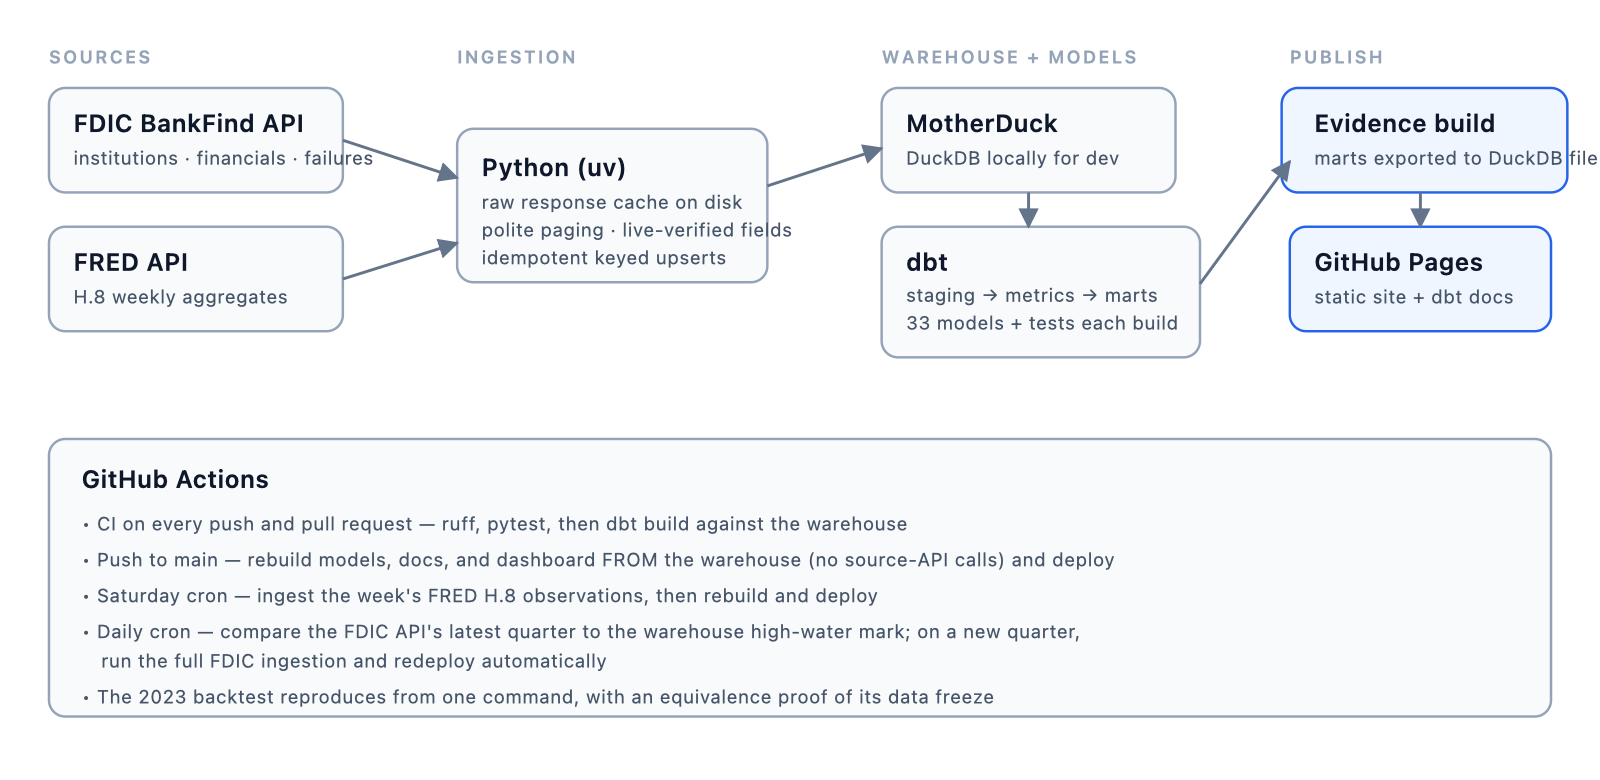
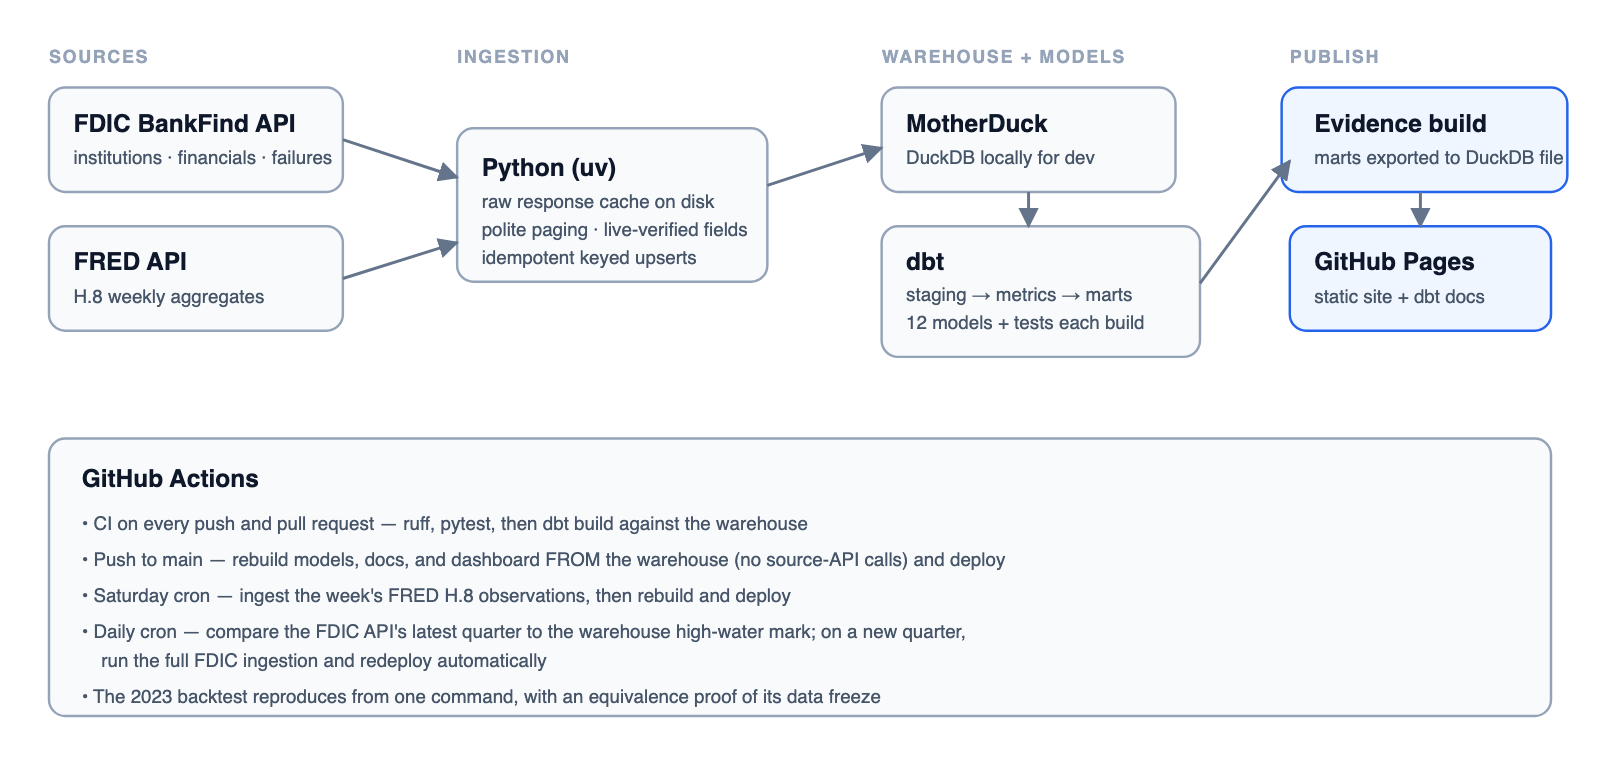
Fix the published dbt-test count and correct the architecture diagram
The data-quality page was reporting "0 passed, 0 failed" for the dbt suite in
production. `dbt build` records a passing test as "pass", but the deploy job
runs `dbt docs generate` after the build, which rewrites run_results.json so the
same rows read "success" — and the export only counted "pass". Count both
statuses so the figure reflects the suite that actually ran (verified: the row
now reads 27 passed after a docs-generate rewrite instead of collapsing to 0).

Correct the architecture diagram, which claimed "33 models"; dbt builds 12. The
SVG is fixed and the embedded PNG regenerated from it at the same dimensions.

diff --git a/scripts/export_dashboard_db.py b/scripts/export_dashboard_db.py
@@ -42,7 +42,11 @@ def _export_quality_status(con) -> None:
     if run_results.exists():
         results = json.loads(run_results.read_text())["results"]
         tests = [r for r in results if r["unique_id"].startswith("test.")]
-        passed = sum(1 for r in tests if r["status"] == "pass")
+        # `dbt build` records a passing test as "pass", but if the last thing to
+        # write run_results.json was `dbt docs generate` (as it is in the deploy
+        # job) the same rows read "success" — count both so the published figure
+        # doesn't silently collapse to "0 passed, 0 failed".
+        passed = sum(1 for r in tests if r["status"] in ("pass", "success"))
         failed = sum(1 for r in tests if r["status"] in ("fail", "error"))
         rows.append((
             "dbt tests",